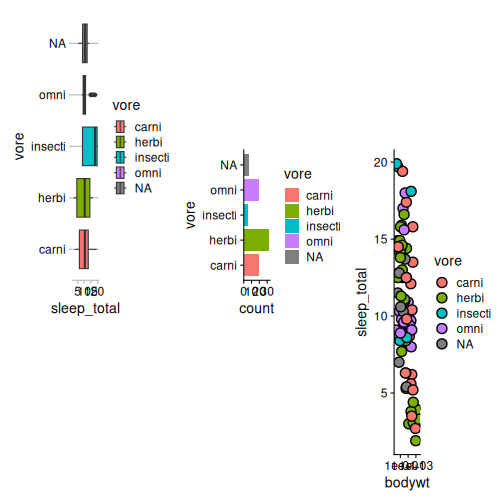
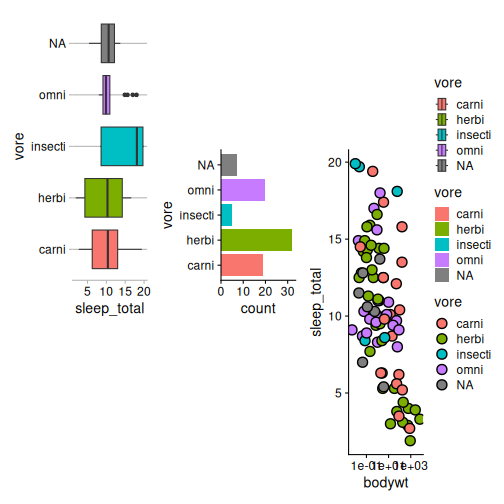
plot customization in the can

diff --git a/13_GrammarOfGraphics2.html b/13_GrammarOfGraphics2.html
@@ -508,7 +508,7 @@ design &lt;- "
   123
   ##3
 "
-p1 + p2 + p3 + plot_layout(design = design)
+p1 + p2 + p3 + plot_layout(design = design, guides = "collect")
 ```
 
 ---
